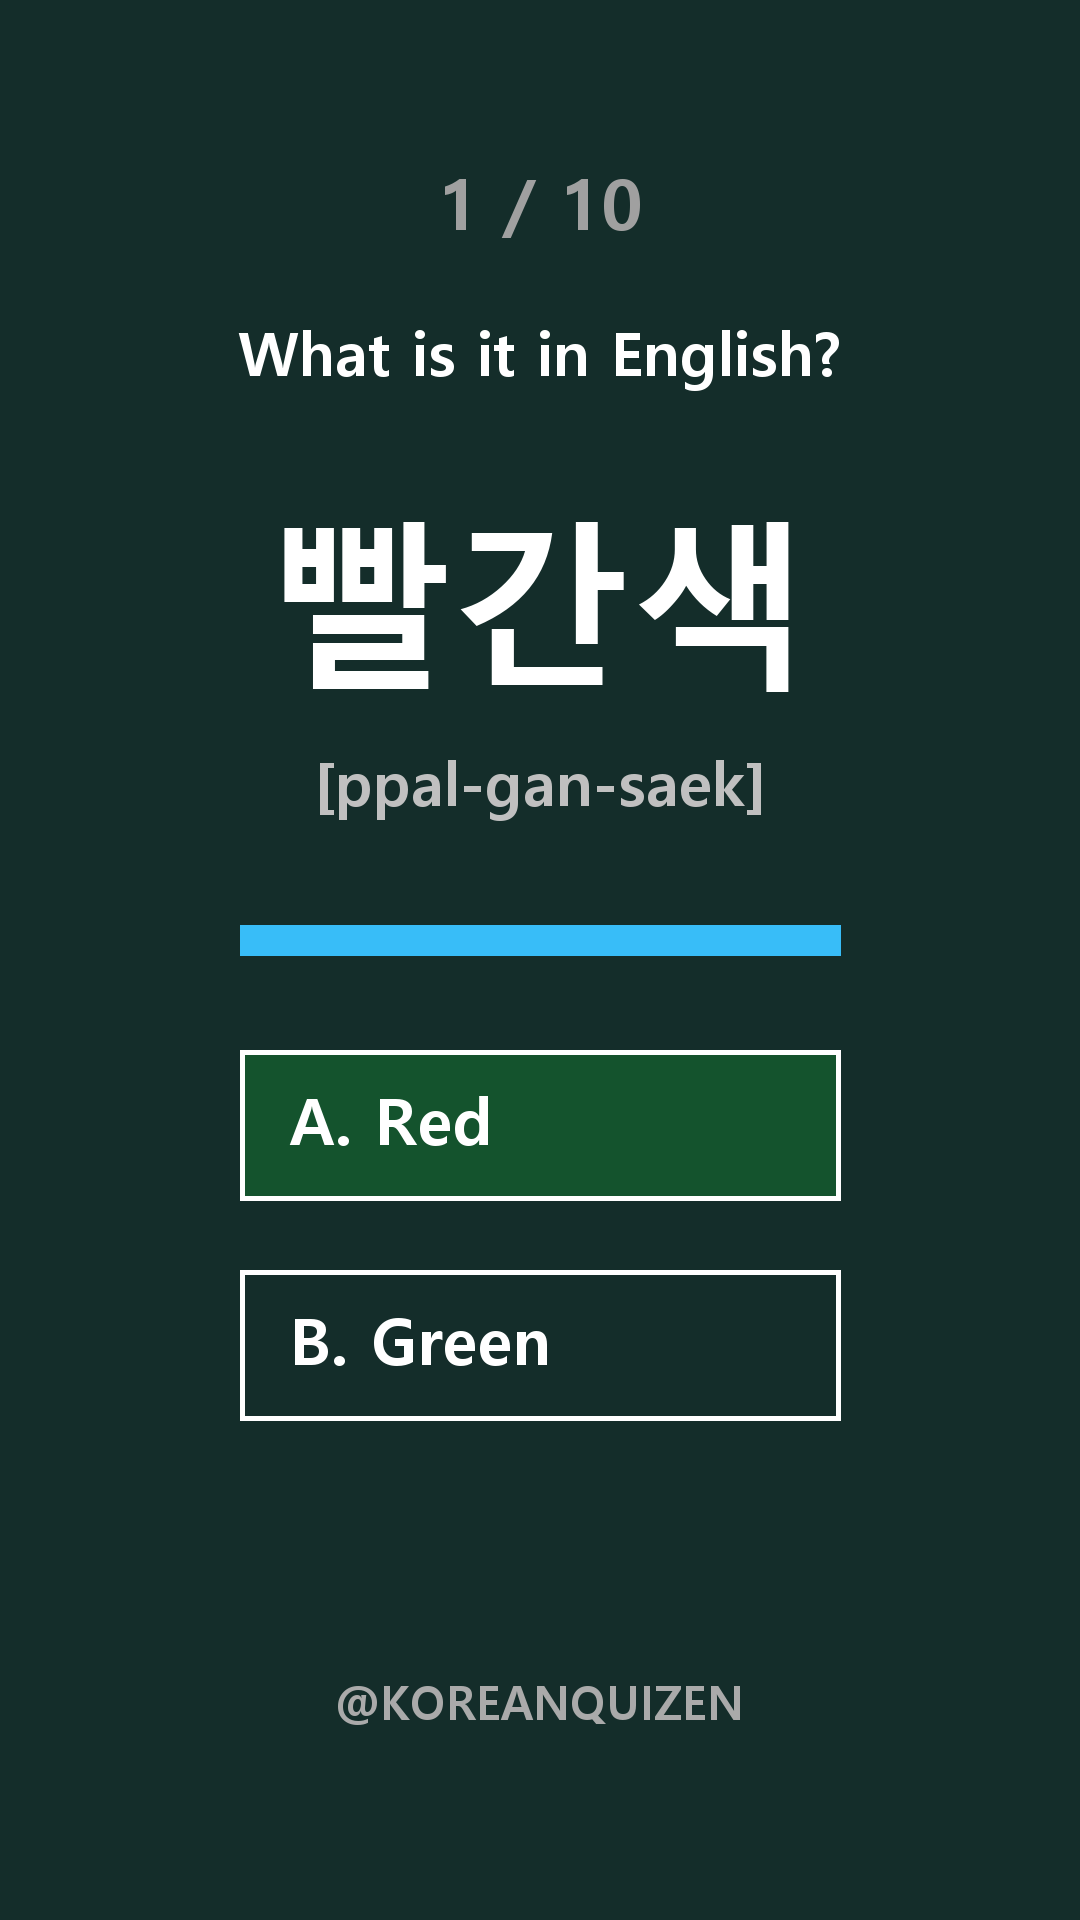
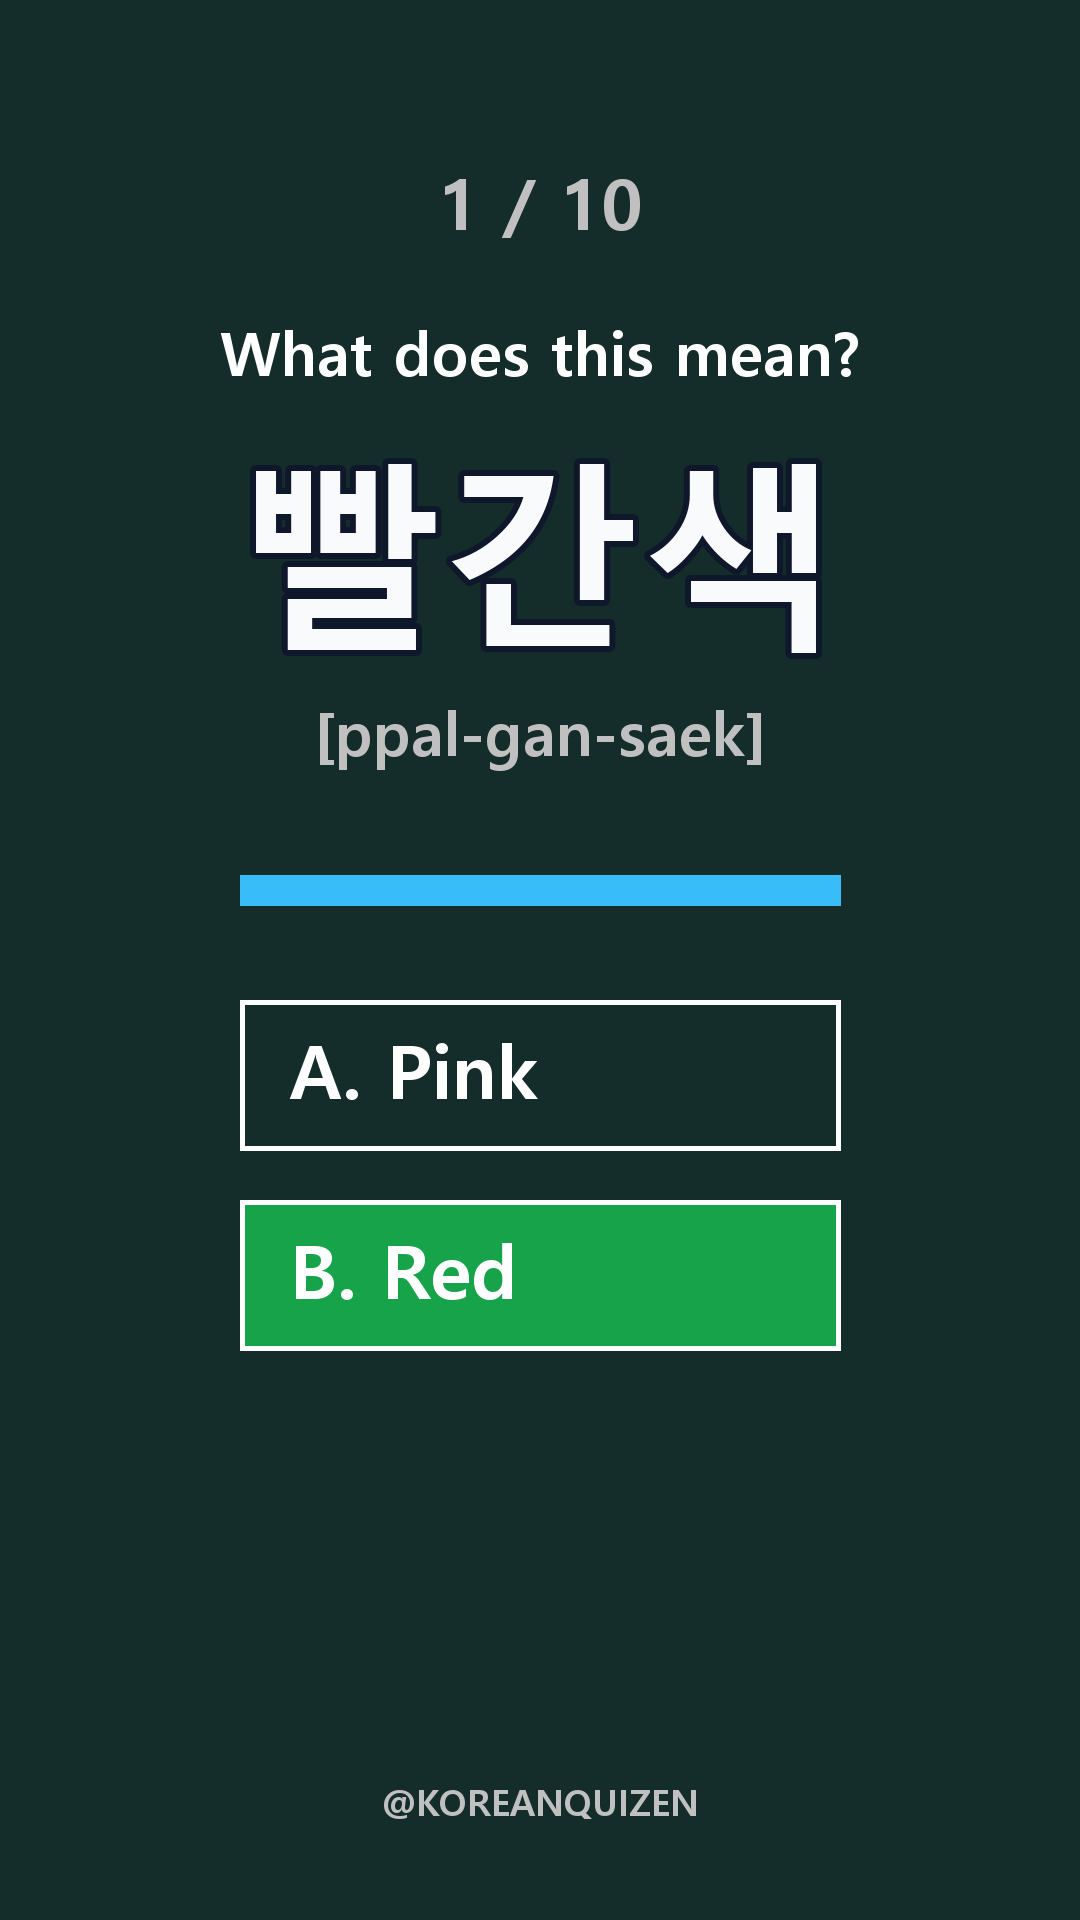
backup: stable core with carousel, json template config, audio integration, and last card retention

diff --git a/src/core/engine.py b/src/core/engine.py
@@ -1,3 +1,4 @@
+import json
 import random
 
 class QuizEngine:
@@ -13,21 +14,20 @@ class QuizEngine:
         ]
     }
 
-    # Палитра современных, глубоких и пастельных фонов в стиле минимализма
-    BACKGROUND_PALETTE = [
-        "#1e1e2e",  # Глубокий темно-серый (базовый комфортный)
-        #2a3439",  # Темный сланец
-        "#1c2a38",  # Глубокий океанический синий
-        "#142d2a",  # Приглушенный темно-изумрудный
-        "#2d1a29",  # Благородный темно-бордовый / баклажан
-        "#25182e"   # Глубокий темно-фиолетовый
-    ]
-
     @staticmethod
-    def create_blueprint(words_base):
+    def create_blueprint(words_base, template_path="templates/vertical/template.json"):
         blueprint = []
         all_trans = [w.translation for w in words_base]
         total_cards = len(words_base)
+
+        # Динамически читаем палитру фонов прямо из конфигурационного файла
+        try:
+            with open(template_path, 'r', encoding='utf-8') as f:
+                config = json.load(f)
+            palette = config.get("background_palette", ["#1e1e2e"])
+        except Exception:
+            # Дефолтный бэкап-цвет на случай, если файл не прочитался
+            palette = ["#1e1e2e"]
 
         for i, card in enumerate(words_base):
             correct_trans = card.translation
@@ -48,8 +48,8 @@ class QuizEngine:
             else:
                 a_phrase = random.choice(QuizEngine.TEMPLATES["answer"]).format(answer=correct_trans)
             
-            # Выбираем случайный цвет из палитры для этой конкретной карточки
-            card_bg = random.choice(QuizEngine.BACKGROUND_PALETTE)
+            # Случайный выбор цвета из палитры, загруженной из JSON
+            card_bg = random.choice(palette)
             
             blueprint.append({
                 "progress_text": f"{i+1} / {total_cards}",
@@ -61,6 +61,6 @@ class QuizEngine:
                 "options": options,
                 "correct_index": options.index(correct_trans),
                 "is_last": is_last,
-                "custom_bg": card_bg  # Передаем цвет в отрисовщик
+                "custom_bg": card_bg
             })
         return blueprint

diff --git a/src/renderers/animation_engine.py b/src/renderers/animation_engine.py
@@ -32,9 +32,17 @@ class AnimationEngine:
         draw.text((width // 2, layout['y_phrase']), item['q_phrase_en'], 
                   fill=colors['text_phrase'], anchor="mm", font=self._get_font(typo['size_phrase']))
 
-        # 3. Слово на корейском и транскрипция
-        draw.text((width // 2, layout['y_korean']), item['korean'], 
-                  fill=colors['text_korean'], anchor="mm", font=self._get_font(typo['size_korean']))
+        # 3. Слово на корейском (С ОБВОДКОЙ) и транскрипция
+        # Добавлены параметры stroke_width и stroke_fill, берущие значения из конфига
+        draw.text(
+            (width // 2, layout['y_korean']), 
+            item['korean'], 
+            fill=colors['text_korean'], 
+            anchor="mm", 
+            font=self._get_font(typo['size_korean']),
+            stroke_width=layout.get('korean_stroke_width', 0),
+            stroke_fill=colors.get('text_korean_stroke', "#000000")
+        )
         
         draw.text((width // 2, layout['y_transcription']), f"[{item['transcription']}]", 
                   fill=colors['text_transcription'], anchor="mm", font=self._get_font(typo['size_transcription']))
@@ -55,8 +63,6 @@ class AnimationEngine:
         
         for i, opt in enumerate(item['options']):
             y = opt_cfg['y_start'] + (i * opt_cfg['y_space'])
-            
-            # Логика: красим в правильный цвет, если это фаза ответа И индекс совпадает
             is_correct = is_answer and (i == correct_idx) and not item.get('is_last', False)
             fill_color = colors['option_correct_bg'] if is_correct else None
             
@@ -77,7 +83,6 @@ class AnimationEngine:
 
     def save_test_preview(self, item, filename="test_card_preview.png"):
         """Метод для мгновенного сохранения одной тестовой карточки в формате PNG"""
-        # ТЕПЕРЬ ПРОВЕРЯЕМ ЦВЕТ ОТВЕТА: передаем is_answer=True и правильный индекс варианта
         img = self.draw_card(item, is_answer=True, correct_idx=item['correct_index'], timer_progress=1.0)
         img.save(filename)
         print(f"[Успех] Тестовый кадр с подсветкой ответа сохранен в файл: {filename}")

diff --git a/main.py b/main.py
@@ -16,8 +16,8 @@ TEST_MODE = True
 
 async def main():
     words_base = DataProvider.load("data/vocabulary.json")
-    blueprint = QuizEngine.create_blueprint(words_base)
-    
+# Измени эту строчку в файле main.py (она находится в районе 16-й строки)
+    blueprint = QuizEngine.create_blueprint(words_base, "templates/vertical/template.json")    
     if TEST_MODE:
         print("=== РЕЖИМ ТЕСТИРОВАНИЯ ВЕРСТКИ ===")
         with open("templates/vertical/template.json", 'r', encoding='utf-8') as f: